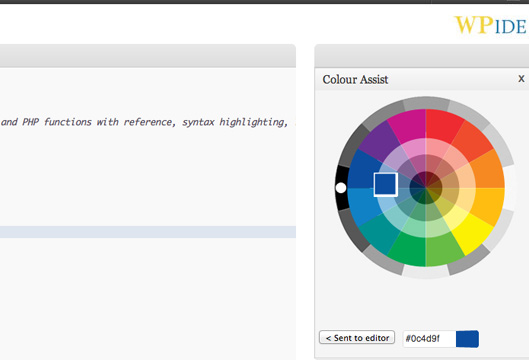
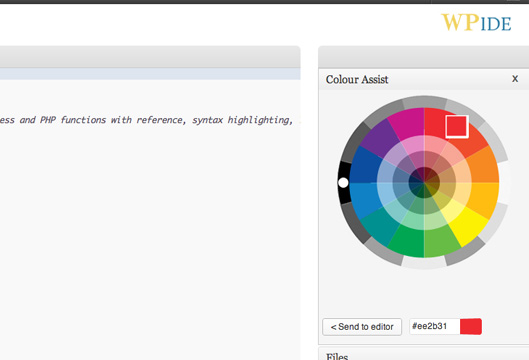
Re-style the colour picker inputs slightly and update the screenshot

diff --git a/wpide.css b/wpide.css
@@ -251,13 +251,16 @@
     left:0;
     top:0;
 }
-#wpide_color_assist input{
+#wpide_color_assist input[type=button]{
+    float:left;
+    width:110px;
+    margin: 15px 5px;
+    font-size: 12px;
+}
+#wpide_color_assist_input{
     float:left;
     width:100px;
     margin: 15px 5px;
-}
-#wpide_color_assist_input{
-    width:80px;
 }
 
 .close_color_picker{

diff --git a/WPide.php b/WPide.php
@@ -686,7 +686,7 @@ class wpide
                     <div class="close_color_picker"><a href="close-color-picker">x</a></div>
                     <h3>Colour Assist</h3>
                     <img src='<?php echo plugins_url("images/color-wheel.png", __FILE__ ); ?>' />
-                    <input type="button" id="wpide_color_assist_send" value="&lt; Sent to editor" />
+                    <input type="button" class="button" id="wpide_color_assist_send" value="&lt; Send to editor" />
                     <input type="text" id="wpide_color_assist_input" name="wpide_color_assist_input" value="" />
                     
                 </div>
